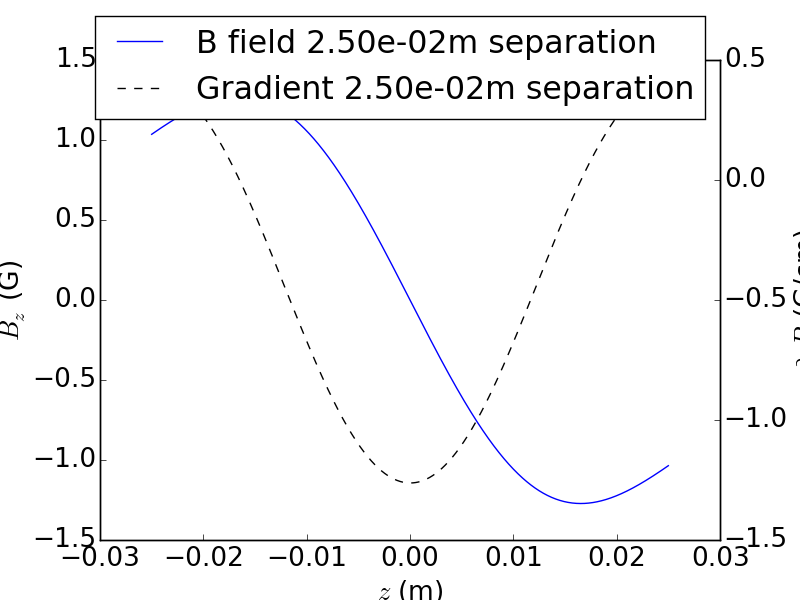
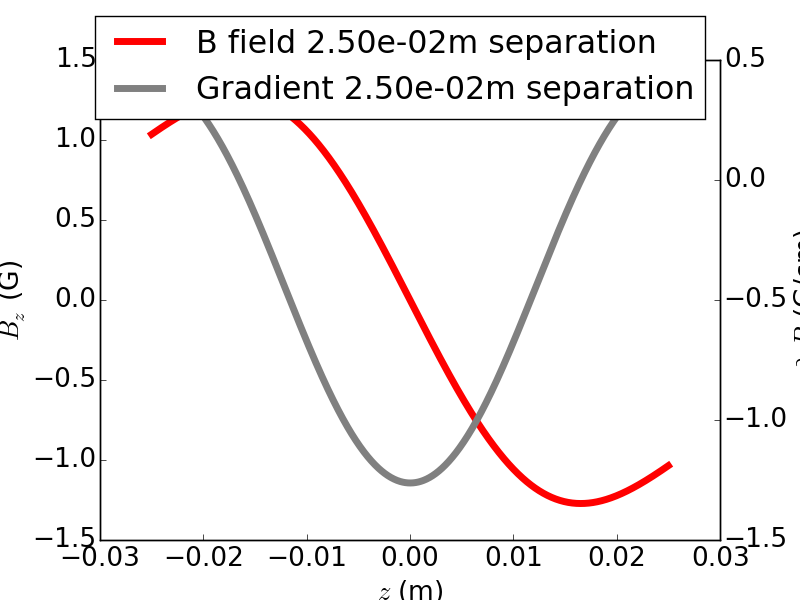
updated plot colours

diff --git a/bfield.py b/bfield.py
@@ -106,8 +106,8 @@ b_gradient= np.diff(b_theory)/np.diff(z_theoretical)
 #DATA OUTPUT
 
 # Create a plot
-field, = ax_B.plot(z_theoretical, b_theory*factor)
-grad, = ax_g.plot(z_theoretical[1:], b_gradient*factor/100, "--k")
+field, = ax_B.plot(z_theoretical, b_theory*factor, 'r', lw=5)
+grad, = ax_g.plot(z_theoretical[1:], b_gradient*factor/100, 'gray', lw=5)
 #expt, = ax_B.plot(z_experimental, b_experimental, ".g")
     
 # Make the plot pretty
